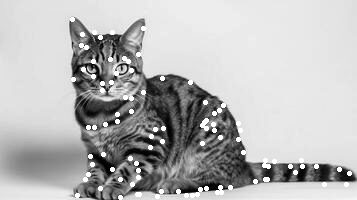
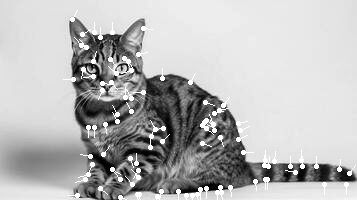
Sift: calculation of keypoint orientation and added docs

diff --git a/docs/sift.md b/docs/sift.md
@@ -1,0 +1,91 @@
+# Documentation for sift.cu and sift.cuh
+
+### Function: `void gaussianBlur(const unsigned char* img_in, unsigned char* img_out, int width, int height, int channels, const float* kernel, int kernel_size);`
+
+**Description:**
+Applies a 2D Gaussian blur to an input image using a specified convolution kernel. The operation is performed on the GPU (CUDA), supporting multi-channel images.
+
+**Parameters:**
+- `img_in`: Pointer to the input image data (flattened array, size = `width * height * channels`).
+- `img_out`: Pointer to the output image data (same size as `img_in`).
+- `width`: Image width (in pixels).
+- `height`: Image height (in pixels).
+- `channels`: Number of color channels (e.g., 1 for grayscale, 3 for RGB).
+- `kernel`: Pointer to the Gaussian kernel (flattened 2D array, size = `kernel_size * kernel_size`).
+- `kernel_size`: Size of the Gaussian kernel.
+
+**Input:**
+- `img_in` should be a contiguous array of unsigned char values representing the image, ordered as [row-major, channel-interleaved].
+- `kernel` should be a normalized Gaussian kernel (sum = 1).
+
+**Output:**
+- `img_out` will contain the blurred image, same shape and type as `img_in`.
+
+### Function: `void differenceOfGaussians(const unsigned char* img1, const unsigned char* img2, float* dog, int width, int height, int channels);`
+
+**Description:**
+Computes the Difference of Gaussians (DoG) between two blurred images. The result is a float-valued image where each pixel is the difference between the corresponding pixels in `img1` and `img2`.
+
+**Parameters:**
+- `img1`: Pointer to the first input image (unsigned char array, size = `width * height * channels`).
+- `img2`: Pointer to the second input image (same size and format as `img1`).
+- `dog`: Pointer to the output DoG image (float array, size = `width * height * channels`).
+- `width`: Image width (in pixels).
+- `height`: Image height (in pixels).
+- `channels`: Number of color channels (e.g., 1 for grayscale, 3 for RGB).
+
+**Input:**
+- `img1` and `img2` should be contiguous arrays of unsigned char values, representing two blurred versions of the same image (typically with different Gaussian sigmas).
+
+**Output:**
+- `dog` will contain the pixel-wise difference: `dog[i] = float(img1[i]) - float(img2[i])` for all pixels and channels.
+
+
+### Function: `void gaussianPyramidAndDoG(const unsigned char* img_in, int width, int height, int channels, int num_levels, const float* sigmas, unsigned char* blurred, float* dogs, int kernel_size);`
+
+**Description:**
+Builds a Gaussian pyramid and computes the Difference of Gaussians (DoG) images for a given input image. This is a core step in the SIFT pipeline for multi-scale keypoint detection.
+
+**Parameters:**
+- `img_in`: Pointer to the input image data (unsigned char array, size = `width * height * channels`).
+- `width`: Image width (in pixels).
+- `height`: Image height (in pixels).
+- `channels`: Number of color channels (e.g., 1 for grayscale, 3 for RGB).
+- `num_levels`: Number of pyramid levels (scales) to generate.
+- `sigmas`: Pointer to an array of Gaussian standard deviations (length = `num_levels`).
+- `blurred`: Pointer to output array for all blurred images (size = `width * height * channels * num_levels`).
+- `dogs`: Pointer to output array for all DoG images (size = `width * height * channels * (num_levels - 1)`).
+- `kernel_size`: Size of the Gaussian kernel (must be odd).
+
+**Input:**
+- `img_in` is the original image, flattened.
+- `sigmas` should contain the desired Gaussian sigmas for each pyramid level.
+
+**Output:**
+- `blurred` will contain all blurred images, concatenated by level.
+- `dogs` will contain all DoG images, concatenated by level.
+
+
+### Function: `float assignOrientation(const unsigned char* blurred, int width, int height, int channels, int x, int y, int scale);`
+
+**Description:**
+Estimates the dominant orientation of a keypoint by analyzing the gradient directions in a local window around the keypoint. This step provides rotation invariance for SIFT keypoints.
+
+**Parameters:**
+- `blurred`: Pointer to the blurred image data (unsigned char array, size = `width * height * channels`).
+- `width`: Image width (in pixels).
+- `height`: Image height (in pixels).
+- `channels`: Number of color channels (should be 1 for grayscale SIFT).
+- `x`, `y`: Coordinates of the keypoint.
+- `scale`: Pyramid scale index (used to select the appropriate Gaussian sigma).
+
+**Input:**
+- `blurred` should be the blurred image at the appropriate scale.
+
+**Output:**
+- Returns the dominant orientation (in degrees, [0, 360)) for the keypoint at (x, y, scale).
+
+**Example:**
+```cpp
+float orientation = assignOrientation(blurred, width, height, 1, x, y, scale);
+```
